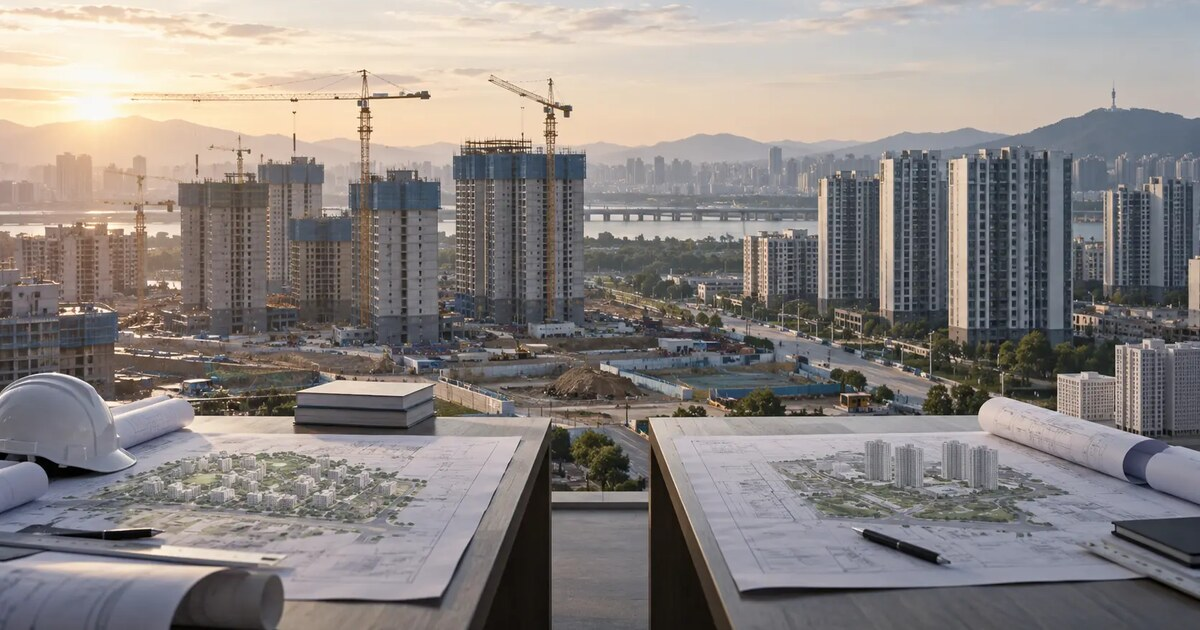
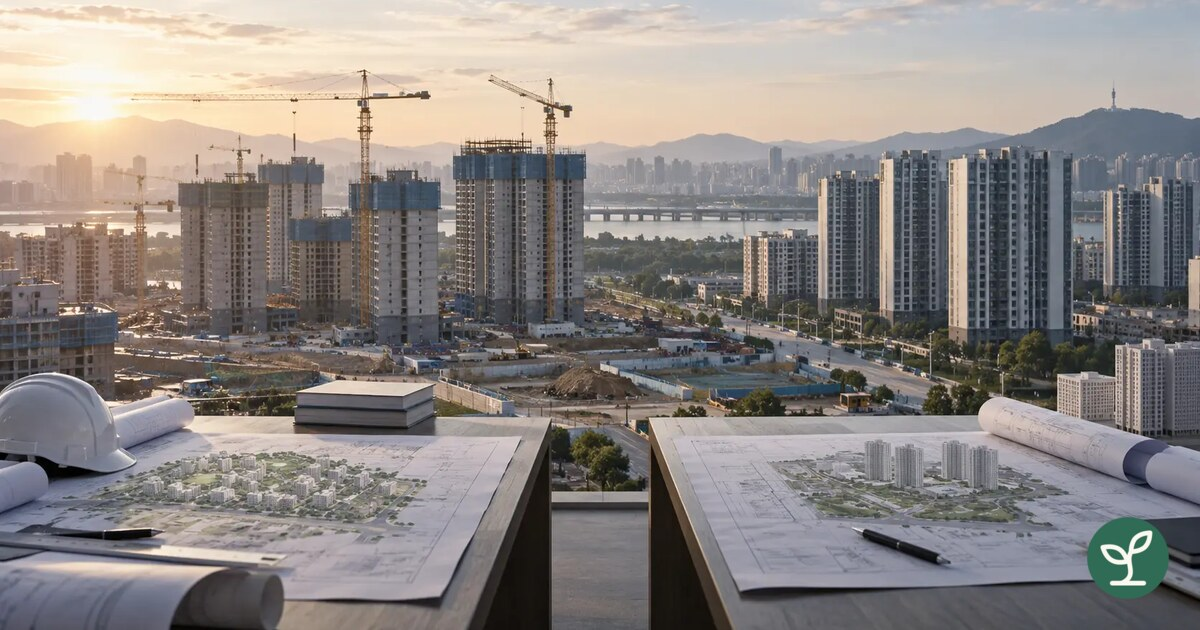
Unify article sharing under Seed Voice and brand social images

Changed region(s): [[0.8942, 0.8143, 0.9867, 0.9651]]

diff --git a/src/seo.ts b/src/seo.ts
@@ -40,7 +40,7 @@ export type SeoRoute = {
 const canonicalPath = (path: string) => path === "/" ? "/" : `${path.replace(/\/$/, "")}/`;
 export const canonicalUrl = (path: string) => `${SITE_URL}${canonicalPath(path)}`;
 export const assetUrl = (path: string) => `${SITE_URL}/${path.replace(/^\/+/, "")}`;
-const socialImageUrl = (section: string, slug: string, version: string) => assetUrl(`images/social/${section}/${slug}.jpg?v=${version.replace(/[^0-9]/g, "")}`);
+const socialImageUrl = (section: string, slug: string, version: string) => assetUrl(`images/social/${section}/${slug}.jpg?v=brand1-${version.replace(/[^0-9]/g, "")}`);
 const stableHash = (value: string) => [...value].reduce((hash, character) => ((hash * 31) + character.charCodeAt(0)) >>> 0, 0).toString();
 const firstLocalRasterImage = <T extends { src: string }>(images?: T[]) => images?.find((image) => !/^https?:\/\//i.test(image.src) && /\.(?:jpe?g|png|webp)$/i.test(image.src));
 
@@ -80,7 +80,7 @@ const staticRoutes: SeoRoute[] = [
 
 const newsRoutes: SeoRoute[] = newsArticles.map((article) => ({
   path: `/news/${article.slug}`,
-  title: `${article.title} | 오늘의뉴스`,
+  title: `${article.title} | 씨앗의 소리`,
   description: article.summary,
   type: "article",
   lastModified: article.date,
@@ -97,7 +97,7 @@ const briefingRoutes: SeoRoute[] = getAllBriefingsNewestFirst().flatMap((briefin
   } : undefined);
   const routes: SeoRoute[] = [{
     path: `/briefings/${briefing.slug}`,
-    title: `${briefing.title} | 시민브리핑`,
+    title: `${briefing.title} | 씨앗의 소리`,
     description: briefing.summary,
     type: "article",
     lastModified: briefing.date,
@@ -108,7 +108,7 @@ const briefingRoutes: SeoRoute[] = getAllBriefingsNewestFirst().flatMap((briefin
   }];
   if (briefing.commentary) routes.push({
     path: `/briefings/${briefing.slug}/commentary`,
-    title: `${briefing.commentary.title} | 브리핑 깊게 보기`,
+    title: `${briefing.commentary.title} | 씨앗의 소리`,
     description: briefing.commentary.summary,
     type: "article",
     lastModified: briefing.date,
@@ -134,7 +134,7 @@ const columnRoutes: SeoRoute[] = columns.map((column) => ({
 
 const monitoringRoutes: SeoRoute[] = publicInterestWatchCases.map((item) => ({
   path: `/monitoring/${item.slug}`,
-  title: `${item.title.ko} | 공익감시`,
+  title: `${item.title.ko} | 씨앗의 소리`,
   description: item.summary.ko,
   type: "article",
   lastModified: item.updatedAt,
@@ -144,7 +144,7 @@ const monitoringRoutes: SeoRoute[] = publicInterestWatchCases.map((item) => ({
 
 const seedLanguageRoutes: SeoRoute[] = allSeedLanguageArticlesKo.map((article) => ({
   path: `/seed-language/${article.slug}`,
-  title: `${article.title} | 씨앗언어`,
+  title: `${article.title} | 씨앗의 소리`,
   description: article.summary,
   type: "article",
   lastModified: article.date,
